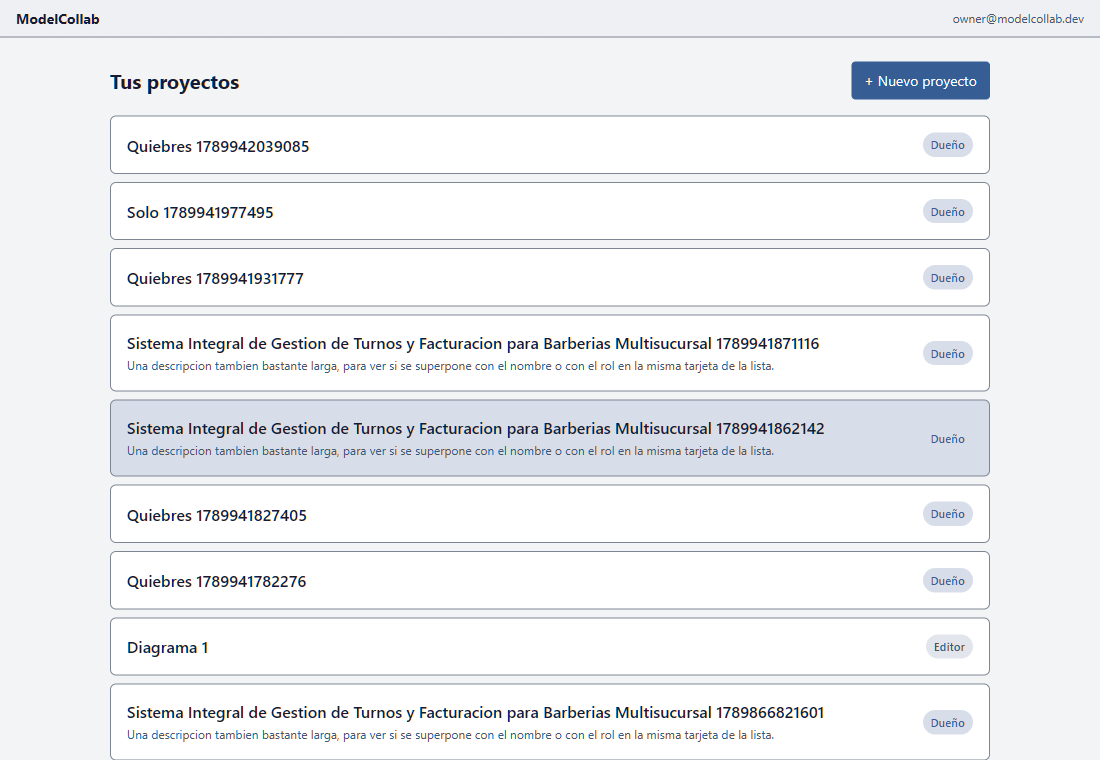
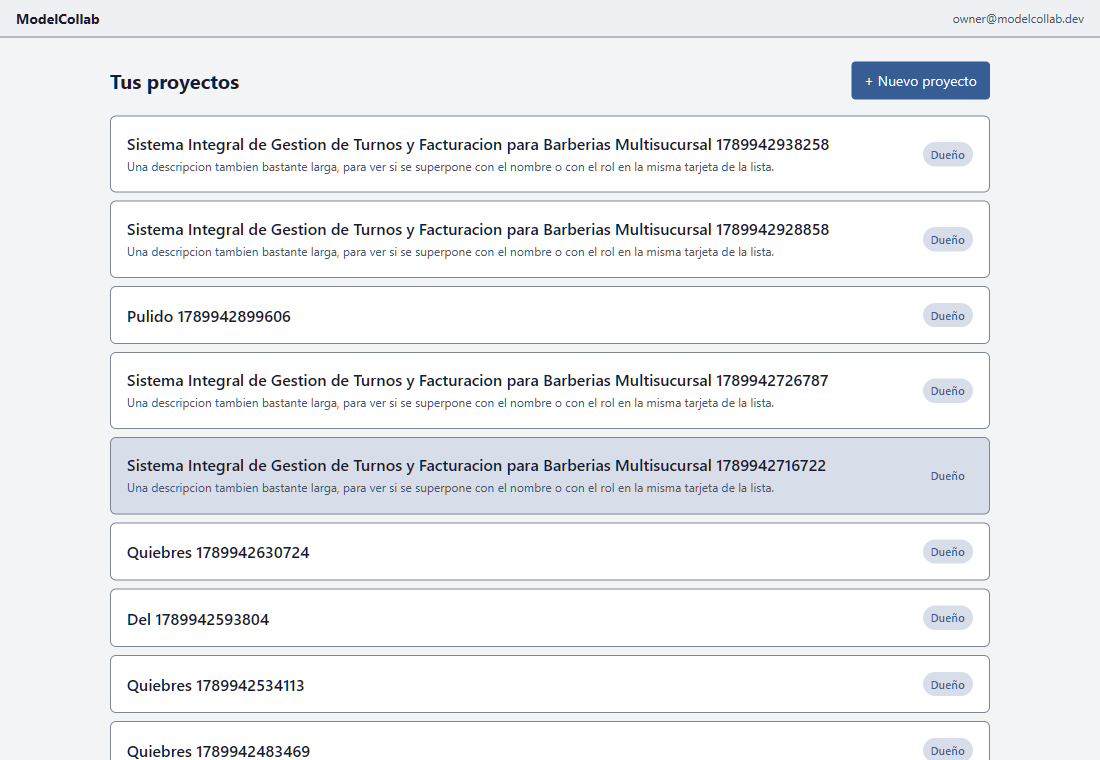
feat(web): el proyecto sin diagramas tambien dice que hacer
Mismo caso que la lista de proyectos vacia, y este cae JUSTO en el Acto 1
del guion: Daniel crea el proyecto y aterriza aca sin ningun diagrama.
Decia "Este proyecto todavia no tiene diagramas" y nada mas, dejandolo
buscando el boton arriba a la derecha.

Ahora dice que es un diagrama y da el boton para crear el primero —
oculto para un VIEWER, que no puede.

Ademas, el style inline de la fila de botones pasa a access.css. Una
regla de maquetado en el JSX es una regla que los verificadores de
contraste y de estilo no miran.

Este estado SI estaba cubierto por el verificador renderizado —el
recorrido pasa por un proyecto recien creado— asi que la caja nueva se
midio sola en los dos esquemas de color. Los dos verificadores en verde.

Y UN ERROR EN MI PROPIO SCRIPT DE CAPTURAS, que vi porque mire la
imagen: navegaba con page.goto a la URL del proyecto, y como la
aplicacion guarda la sesion EN MEMORIA, recargar la pierde y rebota al
login. La captura que saque era la pantalla de acceso, no la del
proyecto. Ahora entra clickeando la fila, como entra una persona.

Changed region(s): [[0.0927, 0.1513, 0.9273, 1.0]]

diff --git a/web/src/access/ProjectScreen.tsx b/web/src/access/ProjectScreen.tsx
@@ -93,7 +93,7 @@ export function ProjectScreen({ session }: Props) {
       <div className="access-page__body">
         <div className="access-page__row">
           <h1>{project?.name ?? "Cargando…"}</h1>
-          <div style={{ display: "flex", gap: "var(--space-2)" }}>
+          <div className="access-page__actions">
             {project?.role === "OWNER" && (
               <button type="button" onClick={() => setShowShare(true)}>
                 Compartir
@@ -112,7 +112,24 @@ export function ProjectScreen({ session }: Props) {
         {diagrams === null && !error && <p>Cargando…</p>}
 
         {diagrams && diagrams.length === 0 && (
-          <p className="access-page__empty">Este proyecto todavía no tiene diagramas.</p>
+          // Mismo caso que la lista de proyectos vacia, y este esta en el Acto 1 del guion:
+          // Daniel crea el proyecto y cae aca sin ningun diagrama. Decir "no hay" y nada mas
+          // lo deja buscando el boton arriba a la derecha.
+          <div className="access-page__empty-box">
+            <span className="access-page__empty-title">Este proyecto no tiene diagramas</span>
+            <p className="access-page__empty">
+              Un diagrama es el lienzo donde se modelan las clases y sus relaciones.
+            </p>
+            {project && project.role !== "VIEWER" && (
+              <button
+                type="button"
+                className="access-page__primary-btn"
+                onClick={() => setShowNew(true)}
+              >
+                + Crear el primero
+              </button>
+            )}
+          </div>
         )}
 
         {diagrams && diagrams.length > 0 && (

diff --git a/web/src/access/access.css b/web/src/access/access.css
@@ -68,6 +68,13 @@
   font-size: var(--font-size-base);
 }
 
+.access-page__actions {
+  /* Estaba como style inline en ProjectScreen. Una regla de maquetado en el JSX es una regla
+     que los verificadores de contraste y de estilo no miran. */
+  display: flex;
+  gap: var(--space-2);
+}
+
 .access-page__empty-box {
   /* Un estado vacio que solo dice "no hay nada" deja al usuario parado. Esta es la
      primera pantalla que ve alguien recien registrado —y la primera del guion de la
